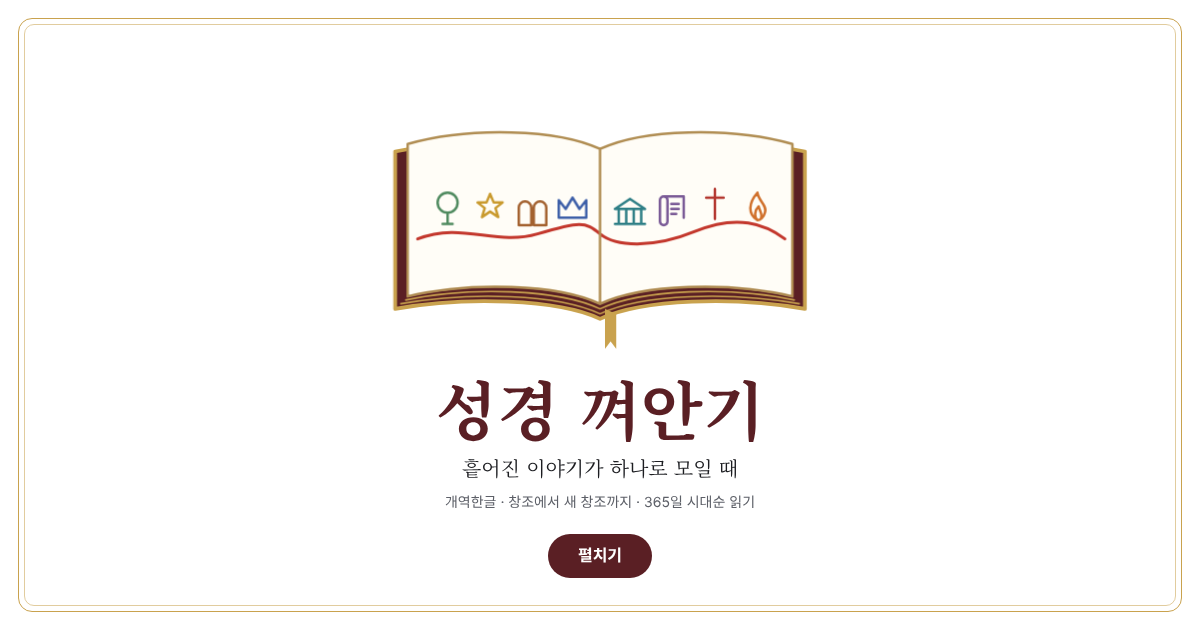
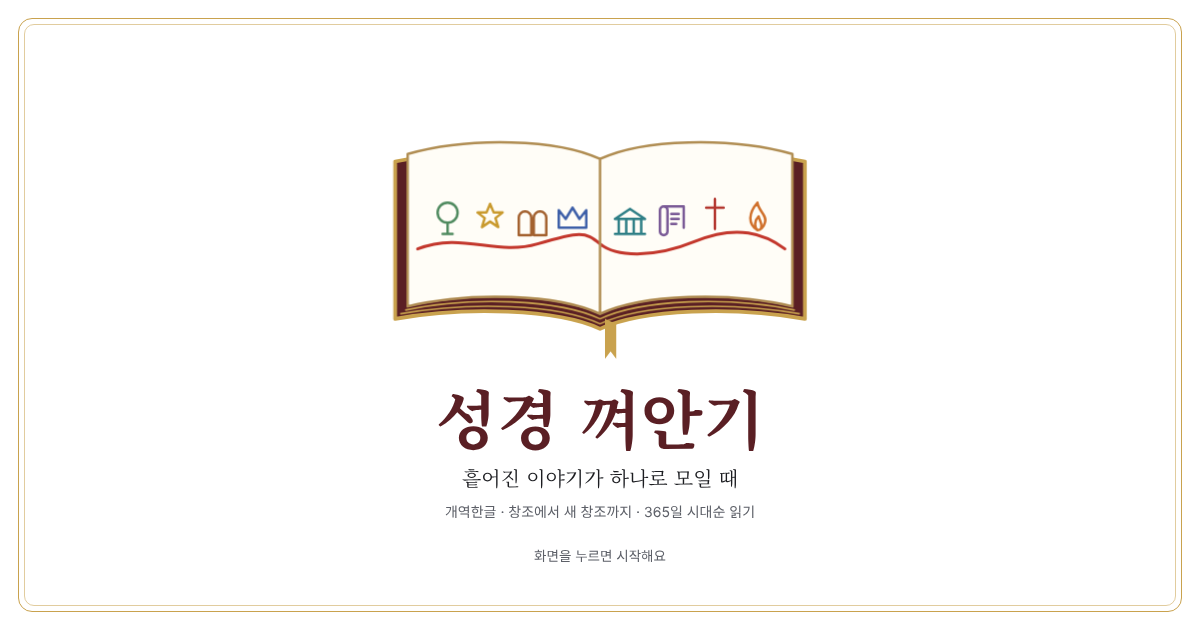
표지에서 펼치기 버튼 제거
Claude-Session: https://claude.ai/code/session_01ShrJEvwfrySTnp1QrGgoXP

diff --git a/index.html b/index.html
@@ -231,10 +231,10 @@ textarea{min-height:96px;resize:vertical}
 .cover h2{font-size:clamp(40px,9vw,64px);color:var(--title);margin-top:clamp(4px,1.5vh,12px)}
 .cover .tag{font-family:"Gowun Batang",serif;font-size:clamp(16px,4vw,20px);margin:0}
 .cover .sub{font-size:clamp(12.5px,3.2vw,14px);color:var(--sub);margin:0}
-.cover .btn{margin-top:clamp(8px,2vh,16px);padding:0 30px;font-weight:700;background:var(--title);color:var(--bg)}
+.cover .hint{margin:clamp(10px,2.4vh,20px) 0 0;font-size:13.5px;color:var(--sub)}
 .cover .ft{position:absolute;left:0;right:0;bottom:clamp(14px,2.4vh,20px);font-size:12px;color:var(--sub)}
 .cover .fade{animation:rise .8s ease-out both}
-.cover h2.fade{animation-delay:3.9s}.cover .tag.fade{animation-delay:4.1s}.cover .sub.fade{animation-delay:4.2s}.cover .btn.fade{animation-delay:4.35s}
+.cover h2.fade{animation-delay:3.9s}.cover .tag.fade{animation-delay:4.1s}.cover .sub.fade{animation-delay:4.2s}.cover .hint.fade{animation-delay:4.6s}
 @media(max-height:640px){.cover .ft{display:none}.frame{padding-bottom:20px}}
 @keyframes draw{to{stroke-dashoffset:0}}
 @keyframes gather{from{transform:translate(var(--x),var(--y)) rotate(var(--r)) scale(1.3)}to{transform:none}}
@@ -315,7 +315,7 @@ textarea{min-height:96px;resize:vertical}
  <h2 class="fade">성경 껴안기</h2>
  <p class="tag fade">흩어진 이야기가 하나로 모일 때</p>
  <p class="sub fade">개역한글 · 창조에서 새 창조까지 · 365일 시대순 읽기</p>
- <button class="btn fade" id="coverGo">펼치기</button>
+ <p class="hint fade">화면을 누르면 시작해요</p>
  <div class="ft">성경전서 개역한글판 (대한성서공회)</div>
 </div></div>
 <div class="toast" id="toast" role="status"></div>

diff --git a/sw.js b/sw.js
@@ -1,6 +1,6 @@
 // 성경 껴안기 — 오프라인 지원
 // 앱 내용을 고쳐서 다시 올릴 때는 아래 버전 숫자를 하나 올려 주세요 (v1 → v2).
-const VERSION = "bible-v5";
+const VERSION = "bible-v6";
 const CORE = ["./", "./index.html", "./bible.json", "./manifest.webmanifest", "./icon-192.png", "./icon-512.png", "./apple-touch-icon.png", "./thumb.png"];
 
 self.addEventListener("install", e => {
